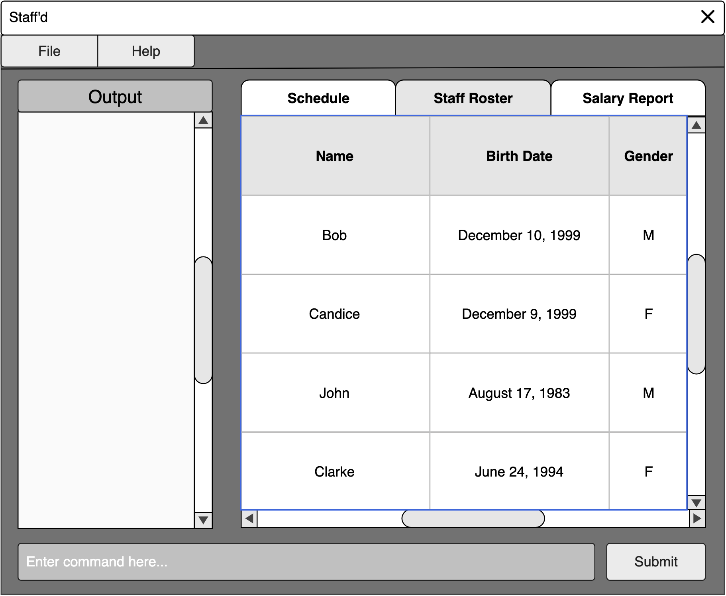
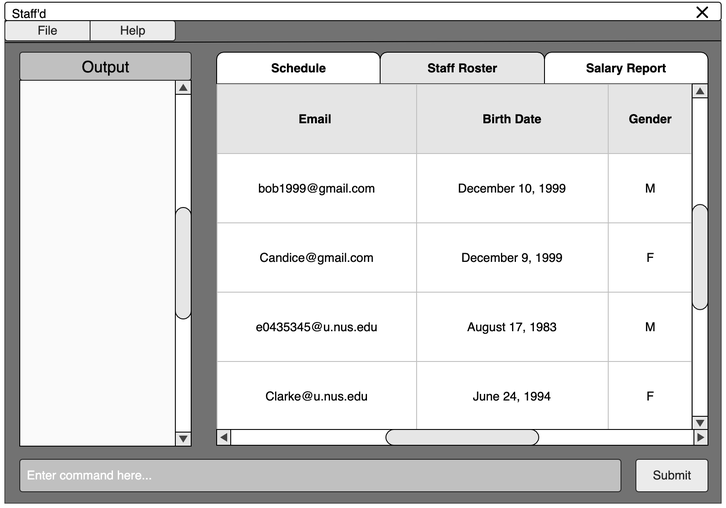
Update Ui mockup

diff --git a/docs/index.md b/docs/index.md
@@ -8,10 +8,12 @@ title: AddressBook Level-3
 
 ![Ui](images/Ui.png)
 
-**AddressBook is a desktop application for managing your contact details.** While it has a GUI, most of the user interactions happen using a CLI (Command Line Interface).
+**Staff'd is a desktop application to help managers manage their staffs.** Staff’d helps F&B managers manage details and schedules of their staff. 
+It is optimized for CLI users so that frequent tasks can be done faster by typing in commands.
+While it has a GUI, most of the user interactions happen using a CLI (Command Line Interface).
 
-* If you are interested in using AddressBook, head over to the [_Quick Start_ section of the **User Guide**](UserGuide.html#quick-start).
-* If you are interested about developing AddressBook, the [**Developer Guide**](DeveloperGuide.html) is a good place to start.
+* If you are interested in using Staff'd, head over to the [_Quick Start_ section of the **User Guide**](UserGuide.html#quick-start).
+* If you are interested about developing Staff'd, the [**Developer Guide**](DeveloperGuide.html) is a good place to start.
 
 
 **Acknowledgements**
